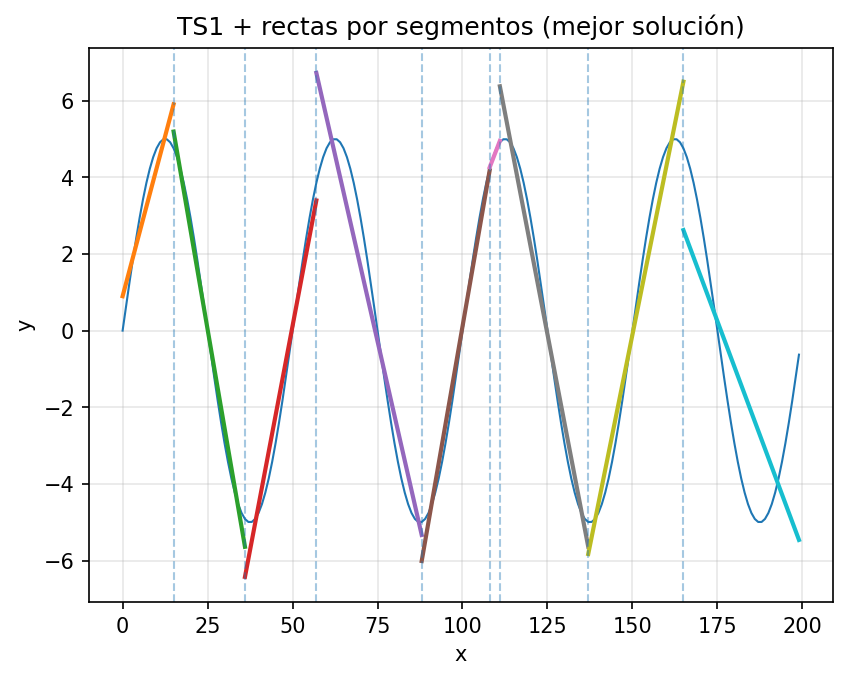
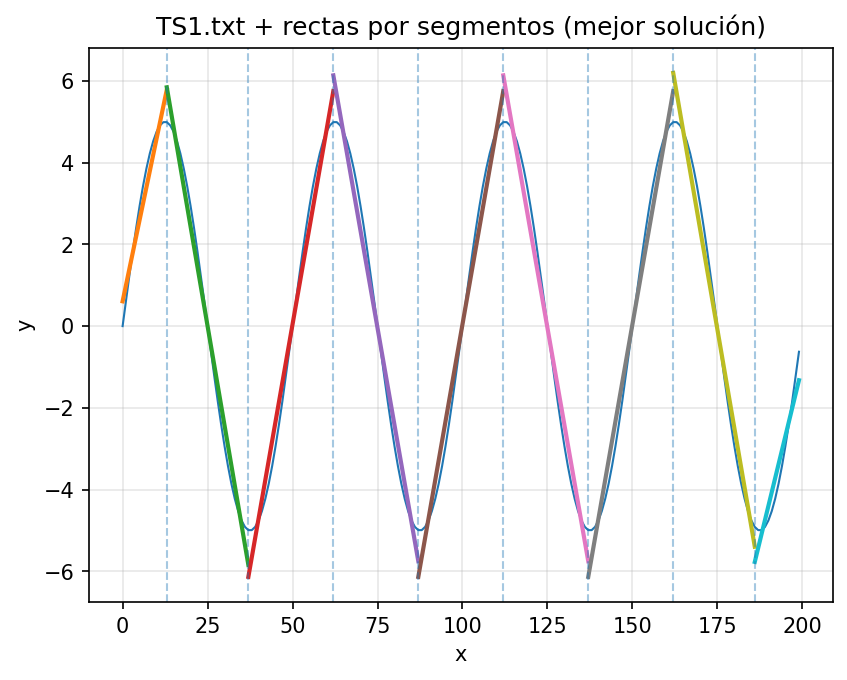
TS1 SA : DONE

diff --git a/simulated_annealing/main.py b/simulated_annealing/main.py
@@ -6,6 +6,7 @@ import copy
 import math
 import random
 from .plotting import plot_series_with_piecewise_lines
+import cronometro
 
 def main(): 
     serie = cargar_datos("./TS1.txt") #ejemplo hardcoded con ts1
@@ -27,38 +28,124 @@ def main():
 #Funcion objetivo: reducir el rmse global
 #calcular L
 
-def simulated_annealing(T0, alpha, L, Tf, k, serie):
-    # alpha = [0,1]
+def simulated_annealing(T0, alpha, L, Tf, file, serie):
+    
     T = T0
-    s = segmentos.generar_segmentos(k, len(serie)) 
+    n = len(serie)
+    cont = 0 #aceptados
+    mejores = 0
+    tot = 0 #hechos
+
+    cronometro.comenzar_cronometro()
+    s = segmentos.generar_segmentos(file['k'], n)
     origen = s
-    c_step = int(.4 * len(serie))
-    vecindario = generarVecindario(s,len(serie),c_step)
-    RMSE_s = metrics.global_rmse_for_cuts(serie, origen)
+
+    #Cache para hacer más eficiente esto
+    # Simplemente para ahorrar recursos ya esta
+    #Nos ahorra muchos usos de RMSE()
+    rmse_cache = {}
+
+    def rmse_of(cuts):
+        key = tuple(cuts)
+        if key not in rmse_cache:
+            rmse_cache[key] = metrics.global_rmse_for_cuts(serie, cuts)
+        return rmse_cache[key]
+
+    RMSE_s = rmse_of(s)
     og_err = RMSE_s
 
-    while (T >= Tf):
-        # Se podría meter en una función
-        mp = (T-Tf) / (T0-Tf)
-        step = max(1, int(round(c_step * mp)))
+    best_ans = s.copy()
+    best_rmse = RMSE_s
 
-        for i in range(0, L):
-            vecindario = generarVecindario(s, len(serie), step)
-            pos = random.randint(0, len(vecindario)-1)
-            s_cand = vecindario[pos] #Segmento con el nuevo corte en base al vecindario de s, posicion aleatoria
-            delta = metrics.global_rmse_for_cuts(serie, s_cand) - RMSE_s
+    step_max = min(int(round(.07 * n)), max(3, int(round(0.25 * (n / file['k'])))))
+
+    while T >= Tf:
+        # Se podría meter en una función
+        
+        mp = (T-Tf) / (T0-Tf)
+        step = max(1, int(round(step_max * mp)))
+
+        for _ in range(L):
+            s_cand = generarVecino(s, len(serie), step) #Segmento con el nuevo corte en base al vecindario de s, posicion aleatoria
+            if s_cand is None : continue
+            # Casi imposible pero asi tratamos la excepcion de generarVecino()
+
+            RMSE_cand = rmse_of(s_cand)
+            delta = RMSE_cand - RMSE_s
             # U(0,1) = random.random() 
             # e^(-S/T) para T baja e^(-S/T) aprox 0 => No se cumple la condicion
 
-            if ((random.random() < math.exp(-delta / T)) or (delta < 0)):
+            rn = random.random()
+            if delta < 0 or rn < math.exp(-delta / T):
                 s = s_cand
-                RMSE_s = metrics.global_rmse_for_cuts(serie, s)
+                RMSE_s = RMSE_cand
+                cont+=1
 
-            print(f"{s_cand} : delta = {delta} : improved => {delta < 0}")
+                if RMSE_s < best_rmse:
+                    mejores+=1
+                    best_rmse = RMSE_s
+                    best_ans = s.copy()
+
+                print(f"{s_cand} : delta = {delta} : improved => {delta < 0} : {rn} < {math.exp(-delta / T)}")
+            else:
+                print(f"{s_cand}")
+            tot+=1
+
 
         T *= alpha # alpha < 1 -> T disminuye (cooling)
 
-    return origen, og_err, s, RMSE_s
+    cronometro.parar_cronometro()
+
+    print(f"step = {step_max}")
+    print(f"points = {len(serie)}")
+    print(f"%step = {step/len(serie)}")
+
+    print(f"cont = {cont}")
+    print(f"tot = {tot}")
+    print(f"mejores = {mejores}")
+    print(f"%cambios = {(cont/tot)*100:.3f}\n")
+
+    print(f"RESULTADO INICIAL {file['file']}:")
+    print(f"Cortes: {origen}")
+    print(f"RMSE Promedio: {og_err:.6f}\n")
+    print(f"RESULTADO FINAL {file['file']}:")
+    print(f"Cortes: {best_ans}")
+    print(f"RMSE Promedio: {best_rmse:.6f}\n")
+
+    plot_series_with_piecewise_lines(
+        serie,
+        origen,
+        show_cuts=True,
+        title=f"{file['file']} + rectas por segmentos (solución inicial)",
+        save_path="./simulated_annealing/inicios/resultado_ts1.png",
+    )
+
+
+    plot_series_with_piecewise_lines(
+        serie,
+        best_ans,
+        show_cuts=True,
+        title=f"{file['file']} + rectas por segmentos (mejor solución)",
+        save_path="./simulated_annealing/resultados/resultado_ts1.png",
+    )
+
+def generarVecino(cuts, n, step):
+    # Alternativa para no tener que generar un vecindario gigantesco
+
+    attempts = 20
+
+    for _ in range(attempts):
+        v = cuts.copy()
+        i = random.randrange(len(v))
+        d = random.randint(1, step)
+        if(random.random() < .5): sign = 1
+        else: sign = -1
+        v[i] += sign * d
+
+        if metrics.es_valido(v, n):
+            return v
+
+    return None
 
 def generarVecindario(solucion, n, step):
     # Creamos el vecindario entero para una solución s

diff --git a/main.py b/main.py
@@ -55,28 +55,16 @@ def menu():
                     print(f"RESULTADO FINAL {serie['file']}:")
                     print(f"Cortes: {mejores_cortes}")
                     print(f"RMSE Promedio: {error_final:.6f}\n")
+
                 elif eleccion == 'c':
-                    T0 = 100
-                    alpha = .8
-                    L = serie['k'] * 5
-                    Tf = 0.01
-                    origen, og_err, solucion, error = simulated_annealing(T0, alpha, L, Tf, serie['k'],datos)
-                    print(f"RESULTADO INICIAL {serie['file']}:")
-                    print(f"Cortes: {origen}")
-                    print(f"RMSE Promedio: {og_err:.6f}\n")
-                    print(f"RESULTADO FINAL {serie['file']}:")
-                    print(f"Cortes: {solucion}")
-                    print(f"RMSE Promedio: {error:.6f}\n")
 
+                    T0 = 0.1
+                    alpha = .95
+                    L = serie['k'] * 4
+                    Tf = 0.001
+
+                    simulated_annealing(T0, alpha, L, Tf, serie,datos)
                     # gráfica debugging
-
-                    plot_series_with_piecewise_lines(
-                        datos,
-                        solucion,
-                        show_cuts=True,
-                        title="TS1 + rectas por segmentos (mejor solución)",
-                        save_path="./simulated_annealing/resultados/resultado_ts1.png",
-                    )
 
                 elif eleccion == 'd':
                     for nombre in ["Búsqueda Aleatoria", "Hill Climbing", "Simulated Annealing"]:
@@ -87,3 +75,36 @@ def menu():
 
 if __name__ == "__main__":
     menu()
+
+# TS1.txt (k = 9)
+
+    # T0 = 0.1
+    # alpha = .95
+    # L = serie['k'] * 4
+    # Tf = 0.001
+
+# Muy bueno: ≤ 0.45 (si estás por aquí, vas fino)
+# Bueno: 0.45 – 0.65
+# Aceptable: 0.65 – 1.00
+# Malo: > 1.00
+
+# TS2.txt (k = 10)
+
+# Muy bueno: ≤ 0.90
+# Bueno: 0.90 – 1.20
+# Aceptable: 1.20 – 1.60
+# Malo: > 1.60
+
+# TS3.txt (k = 20)
+
+# Muy bueno: ≤ 0.85
+# Bueno: 0.85 – 0.95
+# Aceptable: 0.95 – 1.05
+# Malo: > 1.05
+
+# TS4.txt (k = 50)
+
+# Muy bueno: ≤ 1.30
+# Bueno: 1.30 – 1.55
+# Aceptable: 1.55 – 1.80
+# Malo: > 1.80

diff --git a/cronometro.py b/cronometro.py
@@ -17,8 +17,8 @@ def parar_cronometro():
     fin_tiempo = time.time()
     tiempo_transcurrido = fin_tiempo - inicio_tiempo
     
-    print(f"Cronómetro detenido.")
-    print(f"Tiempo total: {tiempo_transcurrido:.2f} segundos")
+    print(f"\nCronómetro detenido.")
+    print(f"Tiempo total: {tiempo_transcurrido:.2f} segundos\n")
     
     # Reiniciamos la variable para el siguiente uso
     inicio_tiempo = None

diff --git a/exp.py b/exp.py
@@ -1,0 +1,7 @@
+import math
+
+delta = 0.05
+T = 0.05
+total = math.exp(-delta/T)
+
+print(f"{total}")
